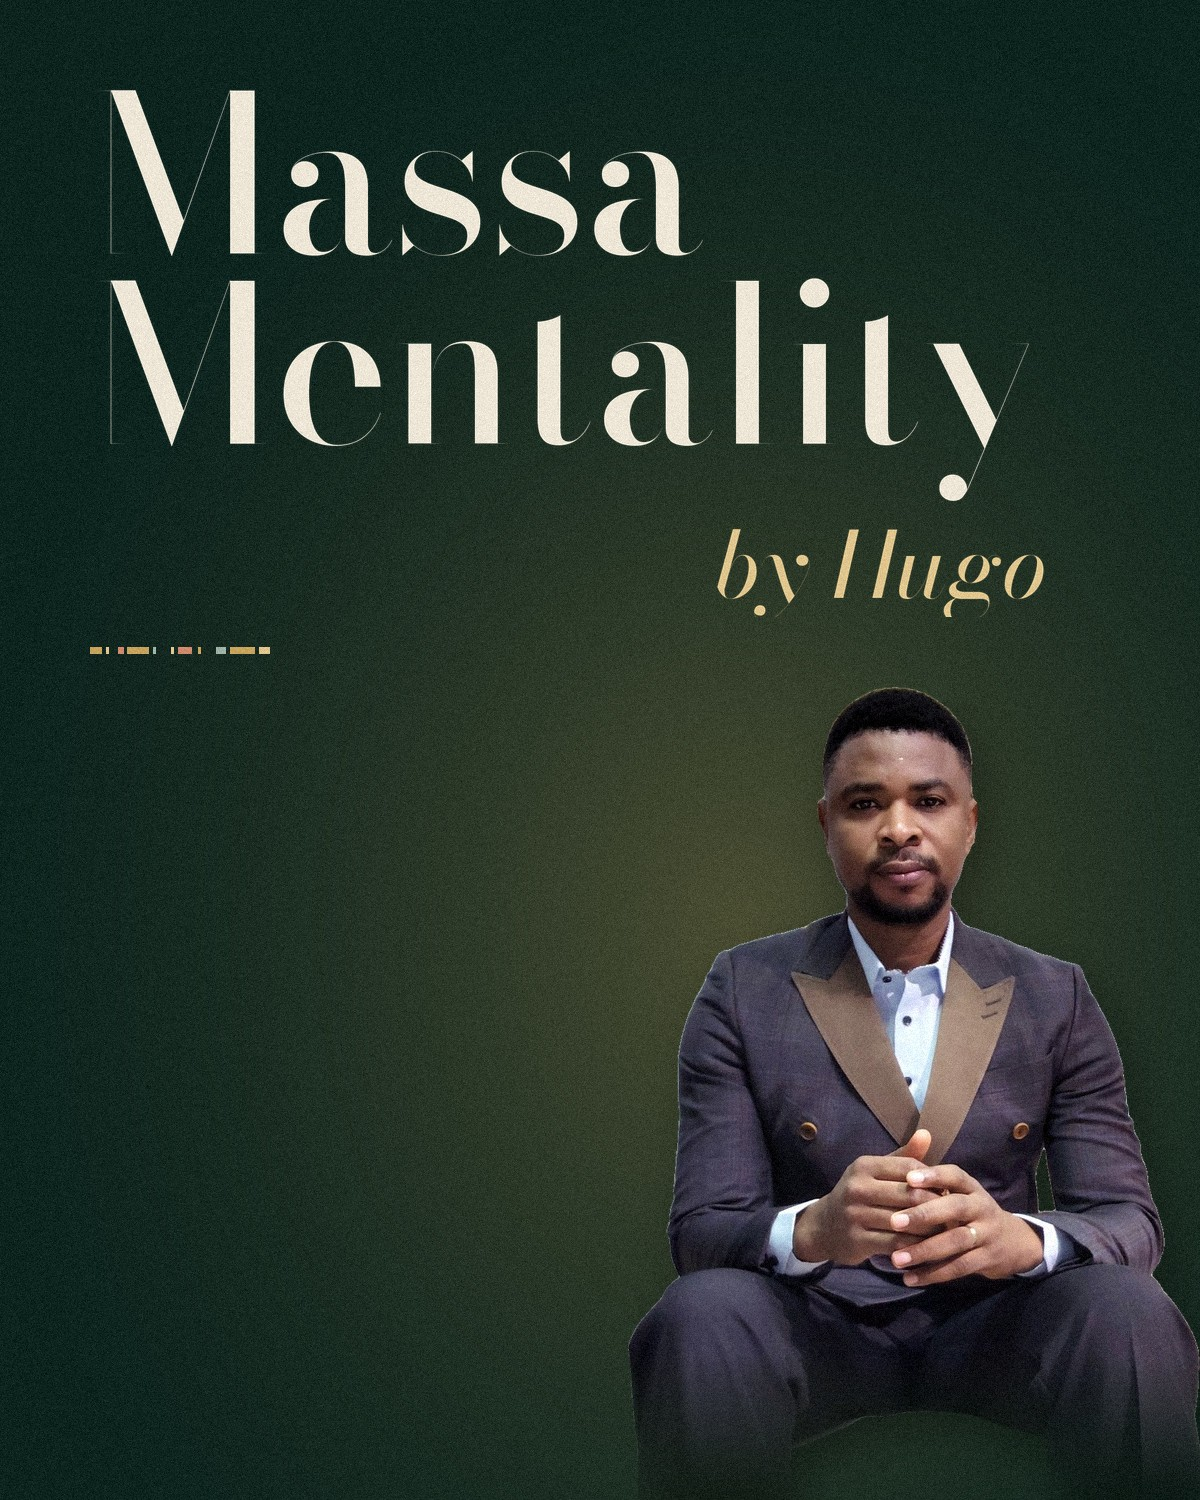
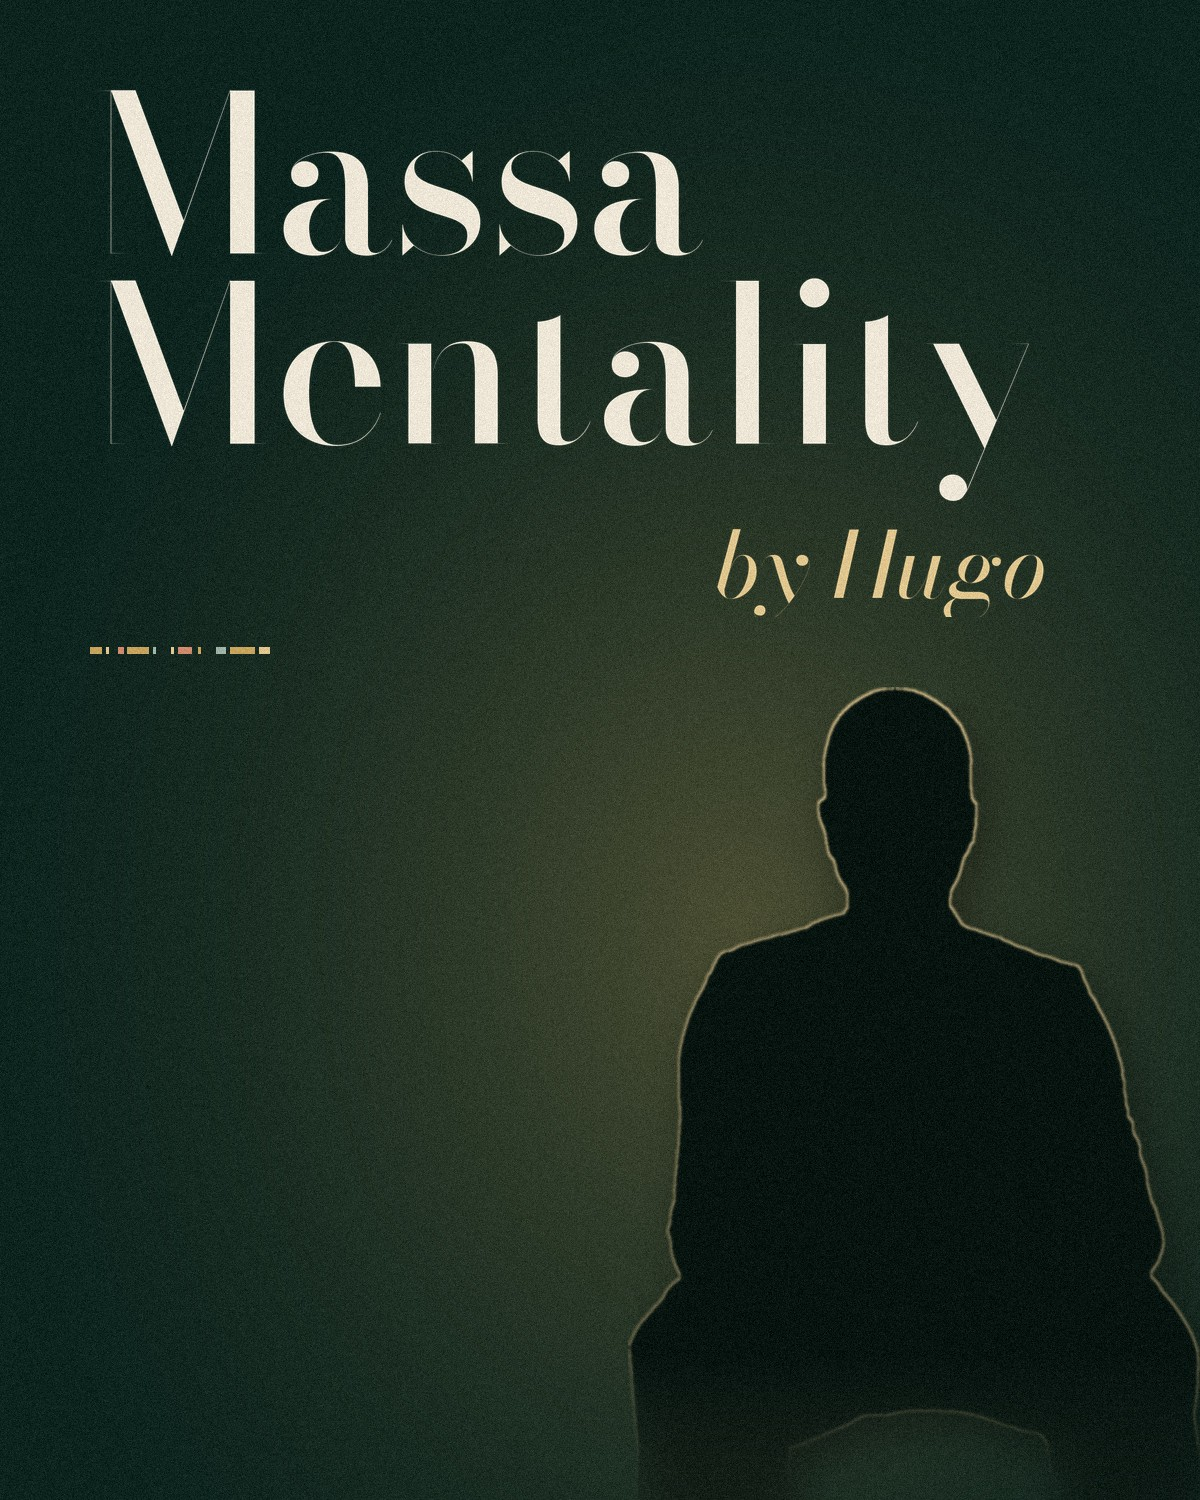
Massa Mentality: show the host as a silhouette
Claude-Session: https://claude.ai/code/session_014gqRvkYxG5Wyq27xrgZ2Wh

Changed region(s): [[0.5242, 0.46, 1.0, 0.9813]]

diff --git a/scripts/assets/massa-mentality/kit.py b/scripts/assets/massa-mentality/kit.py
@@ -1,7 +1,7 @@
 """Massa Mentality by Hugo — artwork in the 74 Tribe Studios house style (malachite, brass, ivory, Bodoni)."""
 import os
 import numpy as np
-from PIL import Image, ImageDraw, ImageFont, ImageFilter
+from PIL import Image, ImageDraw, ImageFont, ImageFilter, ImageChops
 
 HERE = os.path.dirname(os.path.abspath(__file__))
 FD = os.path.join(HERE, "fonts")
@@ -26,7 +26,7 @@ italic = lambda s: font("bodoni-italic", s)
 sans = lambda s: font("hanken-medium", s)
 sans_b = lambda s: font("hanken-semibold", s)
 
-HOST = Image.open(os.path.join(HERE, "host_trim.png")).convert("RGBA")
+HOST = Image.open(os.path.join(HERE, "host_shape.png")).convert("RGBA")  # outline only; no photo pixels
 MARK74 = Image.open(os.path.join(HERE, "logo-mark.png")).convert("RGBA")
 
 def bbox(d, s, f):
@@ -58,10 +58,26 @@ def weave(c, x, y, w, h):
     for a, b, col in WEAVE:
         d.rectangle((x + w * a / 100, y, x + w * b / 100 - 1, y + h), fill=col)
 
+
+def silhouette(img):
+    """Dark figure with a thin brass rim light — keeps the pose, hides the face."""
+    a = img.getchannel("A")
+    w = img.width
+    fill = Image.new("RGBA", img.size, (7, 20, 16, 255)); fill.putalpha(a)
+    # rim: the outer edge of the shape, brightest along the top and sides
+    inner = a.filter(ImageFilter.MinFilter(max(3, (w // 140) | 1)))
+    rim = ImageChops.subtract(a, inner).filter(ImageFilter.GaussianBlur(max(1, w // 600)))
+    ys = np.linspace(1.0, 0.35, img.height)[:, None]
+    rim_a = (np.asarray(rim).astype(float) * ys).clip(0, 255).astype(np.uint8)
+    rim_l = Image.new("RGBA", img.size, BRASS_SOFT + (0,)); rim_l.putalpha(Image.fromarray(rim_a))
+    out = fill.copy(); out.alpha_composite(rim_l)
+    return out
+
 def host(height, keep=0.62):
     h = HOST.crop((0, 0, HOST.width, int(HOST.height * keep)))
     s = height / h.height
-    return h.resize((int(h.width * s), height), Image.LANCZOS)
+    h = h.resize((int(h.width * s), height), Image.LANCZOS)
+    return silhouette(h)
 
 def place_host(c, h, x, y, fade=0.18):
     """Soft shadow + fade the bottom of the cut-out into the background."""

diff --git a/scripts/assets/massa-mentality/make_all.py b/scripts/assets/massa-mentality/make_all.py
@@ -146,7 +146,7 @@ if __name__ == "__main__":
     save(insta_post(), "social/instagram-post-1080.jpg")
     save(insta_story(), "social/instagram-story-1080x1920.jpg")
     save(site_cover(), "site/massa-mentality-cover-1200x1500.jpg", 90)
-    save(HOST, "photos/hugo-cutout.png")
+    save(host(1600, keep=1.0), "photos/hugo-silhouette.png")
     logos()
     # preview
     P = Image.new("RGB", (1700, 1130), (55, 55, 55))
